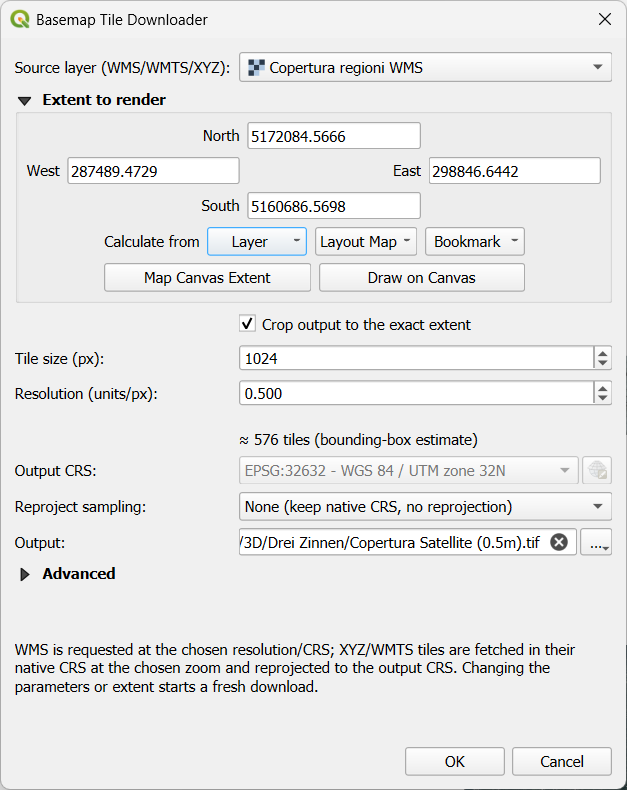
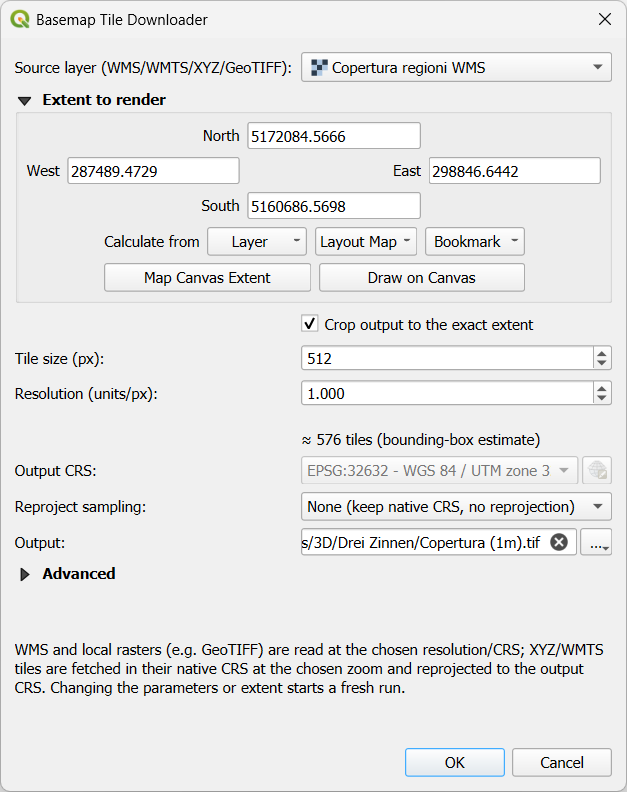
Show the plugin version in the dialog title bar
Read version from metadata.txt (matches the release tag) and, when running
from a git checkout, append the short commit hash. Refreshed the dialog
screenshot.

diff --git a/basemap_tile_downloader/dialog.py b/basemap_tile_downloader/dialog.py
@@ -8,7 +8,10 @@ relevant parameter fields are shown: tile size + resolution for WMS and local
 rasters, zoom level for XYZ/WMTS.
 """
 
+import configparser
 import math
+import os
+import subprocess
 
 from qgis.PyQt.QtWidgets import (
     QDialog, QFormLayout, QVBoxLayout, QHBoxLayout, QDialogButtonBox,
@@ -36,6 +39,39 @@ DEFAULT_MAX_ATTEMPTS = 6
 
 # Ask for confirmation above this estimated tile count.
 WARN_TILE_COUNT = 5000
+
+_PLUGIN_DIR = os.path.dirname(__file__)
+
+
+def _plugin_version():
+    """Version string from metadata.txt (bundled with the plugin) — matches the
+    released git tag. Empty string if it can't be read."""
+    try:
+        cp = configparser.ConfigParser(interpolation=None)   # tolerate % in values
+        cp.read(os.path.join(_PLUGIN_DIR, "metadata.txt"), encoding="utf-8")
+        return cp.get("general", "version", fallback="").strip()
+    except Exception:
+        return ""
+
+
+def _git_short_hash():
+    """Short commit hash if the plugin is running from a git checkout (dev), else
+    "". An installed plugin has no .git, so this is normally empty."""
+    try:
+        out = subprocess.run(
+            ["git", "-C", _PLUGIN_DIR, "rev-parse", "--short", "HEAD"],
+            capture_output=True, text=True, timeout=2,
+            creationflags=getattr(subprocess, "CREATE_NO_WINDOW", 0))
+        return out.stdout.strip() if out.returncode == 0 else ""
+    except Exception:
+        return ""
+
+
+def _window_title():
+    ver  = _plugin_version()
+    sha  = _git_short_hash()
+    tag  = " ".join(p for p in (f"v{ver}" if ver else "", f"({sha})" if sha else "") if p)
+    return f"Basemap Tile Downloader — {tag}" if tag else "Basemap Tile Downloader"
 
 
 class OutputDestinationWidget(QWidget):
@@ -90,7 +126,7 @@ class BasemapTileDialog(QDialog):
     def __init__(self, canvas=None, parent=None):
         super().__init__(parent)
         self._canvas = canvas
-        self.setWindowTitle("Basemap Tile Downloader")
+        self.setWindowTitle(_window_title())
         self.setMinimumWidth(500)
         self._last_source = None
 

diff --git a/CHANGELOG.md b/CHANGELOG.md
@@ -4,6 +4,10 @@ All notable changes to this project are documented here.
 The format is based on [Keep a Changelog](https://keepachangelog.com/).
 
 ## [Unreleased]
+### Added
+- The dialog title bar now shows the plugin version (from metadata.txt, e.g.
+  "Basemap Tile Downloader — v1.4.0"). When run from a git checkout it also
+  appends the short commit hash.
 
 ## [1.4.0] - 2026-07-01
 ### Fixed